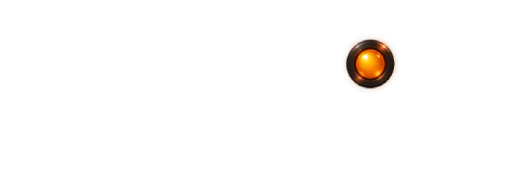
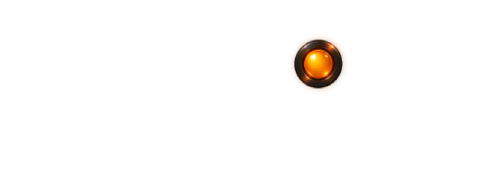
feat(player): merge format/bitrate into the LED bar as a third segment
Adds a Format/Bitrate segment to the left of BitPerfect/ReplayGain, in
the same panel style, replacing the separate plain-text badge. Its
width is dynamic (track format strings vary a lot in length), so
unlike the other two it isn't baked art: it's built from two pixel
slices lifted from the existing artwork instead — the rounded end cap
and an 8px column of the flat panel interior (tiled horizontally,
seamless since the panel's gradient only varies vertically) — so the
seam against the baked BitPerfect/ReplayGain segments is invisible at
any text length. The baked segments lose their own left cap (cropped
off) since the new cap now sits at the far left of the whole bar.

Changed region(s): [[0.5938, 0.2, 0.75, 0.5143]]

diff --git a/src/components/LedBar.jsx b/src/components/LedBar.jsx
@@ -1,23 +1,46 @@
 import React from 'react';
+import ledBarLeftCap from '../assets/ledbar/led-bar-left-cap.png';
+import ledBarFill from '../assets/ledbar/led-bar-fill.png';
 import ledBarBase from '../assets/ledbar/led-bar-base.png';
 import ledBarBitperfect from '../assets/ledbar/led-bar-bitperfect.png';
 import ledBarReplaygain from '../assets/ledbar/led-bar-replaygain.png';
 
-// Two-segment hardware-style status bar (BitPerfect / ReplayGain). `mode` is
-// mutually exclusive by design — LMS applies ReplayGain via software gain,
-// so a track can never be bit-perfect while ReplayGain is active — matching
-// the source artwork, which only ever lights one LED at a time.
-// (No DSP segment: DSP is an unreleased paid feature, kept out of this bar.)
-const LedBar = ({ mode, className = '' }) => (
-  <div className={`relative inline-block ${className}`} style={{ aspectRatio: '532 / 175' }}>
-    <img src={ledBarBase} alt="" draggable={false}
-      className="block w-full h-full select-none pointer-events-none" />
-    <img src={ledBarBitperfect} alt="BitPerfect" draggable={false}
-      className="absolute inset-0 w-full h-full select-none pointer-events-none transition-opacity duration-200"
-      style={{ opacity: mode === 'bitperfect' ? 1 : 0 }} />
-    <img src={ledBarReplaygain} alt="ReplayGain" draggable={false}
-      className="absolute inset-0 w-full h-full select-none pointer-events-none transition-opacity duration-200"
-      style={{ opacity: mode === 'replaygain' ? 1 : 0 }} />
+// Three-segment hardware-style status bar: Format/bitrate | BitPerfect |
+// ReplayGain. The BitPerfect/ReplayGain segments are baked art (from the
+// source PSD, DSP segment removed — DSP is an unreleased paid feature, kept
+// out of this bar). `mode` between them is mutually exclusive by design —
+// LMS applies ReplayGain via software gain, so a track is never bit-perfect
+// while it's active — matching the artwork, which only ever lit one LED.
+//
+// The Format segment can't be baked art: its text is arbitrary track
+// metadata ("FLAC · 24bit · 96kHz"), not a fixed label. It's built from two
+// real pixel slices lifted from that same artwork instead — the rounded end
+// cap and an 8px column of the flat panel interior (its gradient only
+// varies vertically, so tiling it horizontally is seamless) — so the seam
+// against the baked segments is invisible despite the segment stretching to
+// fit whatever text is passed in.
+const LedBar = ({ mode, formatLabel, className = '' }) => (
+  <div className={`inline-flex items-stretch select-none ${className}`}>
+    <div className="shrink-0 h-full" style={{ aspectRatio: '52 / 175', backgroundImage: `url(${ledBarLeftCap})`, backgroundSize: '100% 100%' }} />
+    <div className="flex items-center shrink-0 h-full px-2"
+      style={{
+        backgroundImage: `url(${ledBarFill})`, backgroundRepeat: 'repeat-x', backgroundSize: 'auto 100%',
+        borderRight: '1px solid rgba(180,200,220,0.15)', boxShadow: 'inset -2px 0 4px rgba(0,0,0,0.35)',
+      }}>
+      {formatLabel && (
+        <span className="text-[10px] text-hifi-silver/60 tracking-wide whitespace-nowrap">{formatLabel}</span>
+      )}
+    </div>
+    <div className="relative shrink-0 h-full" style={{ aspectRatio: '480 / 175' }}>
+      <img src={ledBarBase} alt="" draggable={false}
+        className="block w-full h-full pointer-events-none" />
+      <img src={ledBarBitperfect} alt="BitPerfect" draggable={false}
+        className="absolute inset-0 w-full h-full pointer-events-none transition-opacity duration-200"
+        style={{ opacity: mode === 'bitperfect' ? 1 : 0 }} />
+      <img src={ledBarReplaygain} alt="ReplayGain" draggable={false}
+        className="absolute inset-0 w-full h-full pointer-events-none transition-opacity duration-200"
+        style={{ opacity: mode === 'replaygain' ? 1 : 0 }} />
+    </div>
   </div>
 );
 

diff --git a/src/pages/LyrionServer.jsx b/src/pages/LyrionServer.jsx
@@ -1413,13 +1413,8 @@ const LyrionServer = () => {
                     </div>
                     <p className="text-lg text-hifi-gold truncate mt-0.5 font-medium">{artist}</p>
                     <p className="text-sm text-hifi-silver/70 truncate">{album}</p>
-                    <div className="flex items-center gap-2 mt-1">
-                      {formatLabel && (
-                        <span className="inline-block px-2 py-0.5 bg-white/5 text-[10px] text-hifi-silver/50 rounded border border-white/5 tracking-wide">
-                          {formatLabel}
-                        </span>
-                      )}
-                      <LedBar mode={playbackMode} className="h-16" />
+                    <div className="mt-1">
+                      <LedBar mode={playbackMode} formatLabel={formatLabel} className="h-16" />
                     </div>
                   </div>
 
